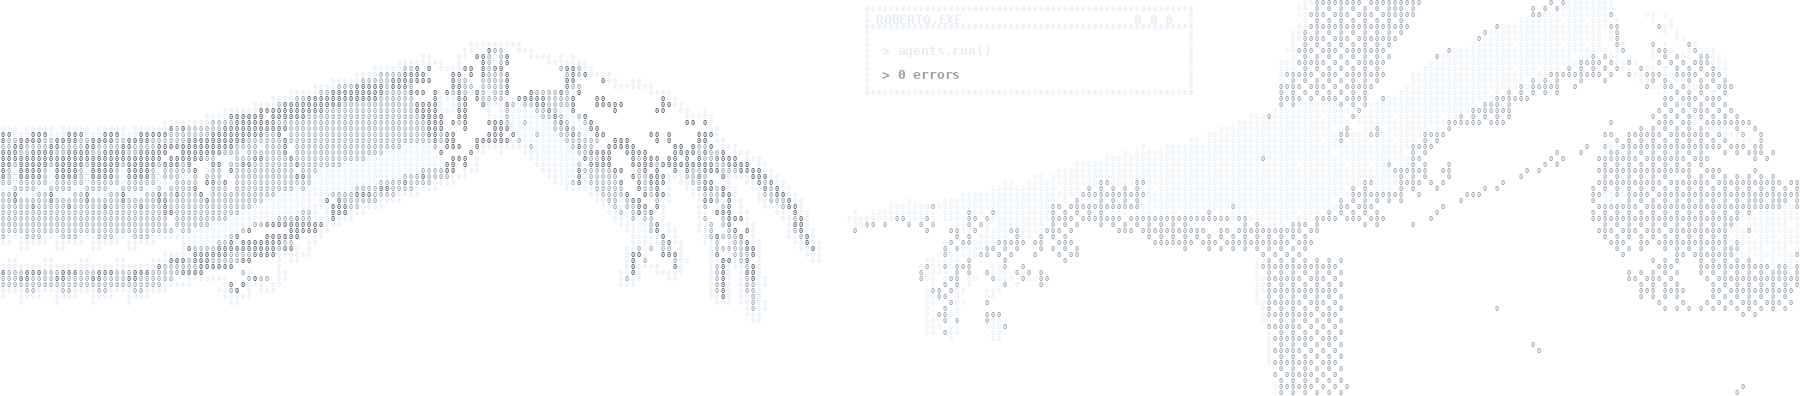
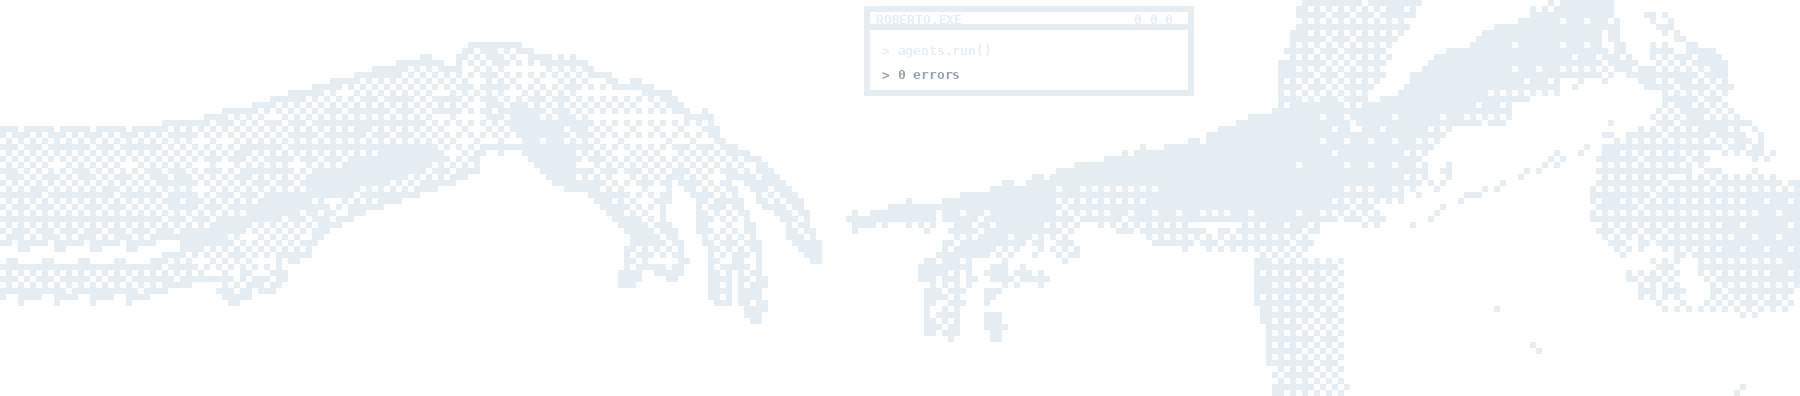
Capa em pontos (dither), como a original

diff --git a/scripts/banner.py b/scripts/banner.py
@@ -1,6 +1,6 @@
-"""Capa do perfil: Criação de Adão desenhada só com '0'.
+"""Capa do perfil: Criação de Adão em pontos (dither).
 
-Adão (esquerda) vira o braço robótico de ref/robot.jpg: grade cheia, metal sombreado por tom.
+Adão (esquerda) vira o braço robótico de ref/robot.jpg.
 Deus (direita) fica orgânico: densidade de '0' segue a luz (bayer).
 """
 import sys
@@ -66,19 +66,12 @@ god_on = god & (lum * 0.7 + 0.42 > th)
 for theme, c in THEMES.items():
     im = Image.new("RGBA", (COLS * CELL, ROWS * CELL), (0, 0, 0, 0))
     d = ImageDraw.Draw(im)
-    put = lambda x, y, col, f=FONT, ch="0": d.text((x * CELL + 1, y * CELL - 2), ch, fill=col, font=f)
+    put = lambda x, y, col, f=None: d.rectangle((x * CELL, y * CELL, x * CELL + CELL - 1, y * CELL + CELL - 1), fill=c["hi"])  # ponto
     for y in range(ROWS):
         for x in range(COLS):
             if robot[y, x]:
-                v = rlum[y, x]
-                if edge[y, x]:
-                    put(x, y, c["hi"], BOLD)
-                elif v > 0.62:
+                if edge[y, x] or rlum[y, x] * 0.8 + 0.3 > th[y, x]:
                     put(x, y, c["hi"])
-                elif v > 0.3:
-                    put(x, y, c["mid"])
-                elif v > 0.1:
-                    put(x, y, c["lo"])     # abaixo disso fica vazio: frestas entre as peças
             elif god_on[y, x]:
                 put(x, y, c["hi"] if lum[y, x] > 0.55 else c["mid"])
     # janela de terminal feita de 0, entre as mãos

diff --git a/README.md b/README.md
@@ -1,7 +1,7 @@
 <p align="center">
   <picture>
     <source media="(prefers-color-scheme: dark)" srcset="assets/banner-dark.png">
-    <img src="assets/banner-light.png" alt="The Creation of Adam drawn entirely with zeros, Adam's hand rebuilt as a robotic hand, with a terminal window between the fingers" width="100%">
+    <img src="assets/banner-light.png" alt="Dithered pixel art of The Creation of Adam with Adam's arm as a robotic arm, and a terminal window above the hands" width="100%">
   </picture>
 </p>
 
